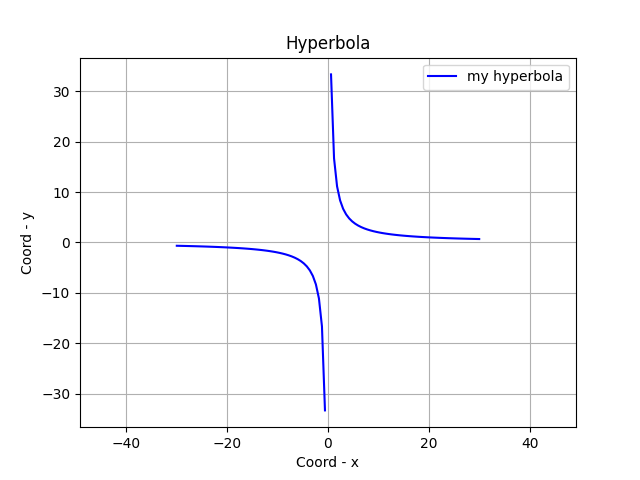
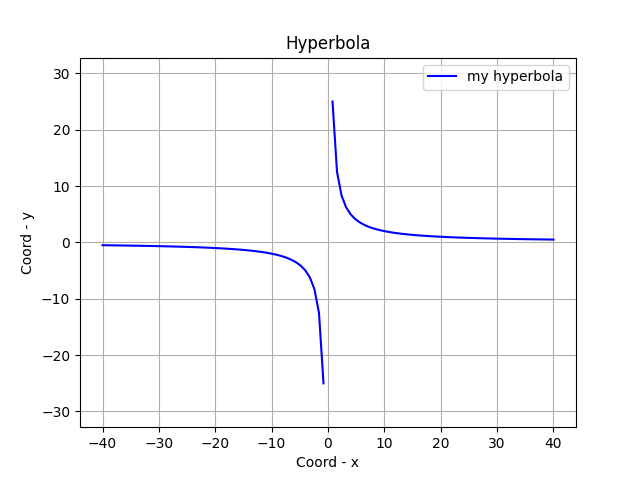
.

diff --git a/lab_6_task_3.py b/lab_6_task_3.py
@@ -1,11 +1,26 @@
 import matplotlib.pyplot as plt
 import numpy as np
 
-def elipce(minimum, maximum, N, a, b):
-  
-  x = (minimum, maximum, N)
-  y = (minimum, maximum, N)
-
-  X, Y = np.meshgrid(x, y)
-
+def plot_ellipse(x_min, x_max, N, a, b):
+  x = np.linspace(x_min, x_max, N)
+  y_positive = np.sqrt(b*2 * (1 - (x*2 / a*2)))
+  y_negative = -np.sqrt(b*2 * (1 - (x*2 / a*2)))
+  plt.plot(x, y_positive, 'r-', label='Верхняя половина')
+  plt.plot(x, y_negative, 'r-', label='Нижняя половина')
+  plt.xlim(x_min, x_max)
+  plt.ylim(-b, b)
+  plt.xlabel('X')
+  plt.ylabel('Y')
+  plt.title('График эллипса')
+  plt.legend()
+  plt.grid(True)
+  plt.axis('equal')
   plt.savefig('fig_task_3.png')
+
+N = int(input("Введите количество точек (N): "))
+x_min = float(input("Введите минимальное значение X: "))
+x_max = float(input("Введите максимальное значение X: "))
+a = float(input("Введите большую полуось (a): "))
+b = float(input("Введите малую полуось (b): "))
+
+plot_ellipse(x_min, x_max, N, a, b)
